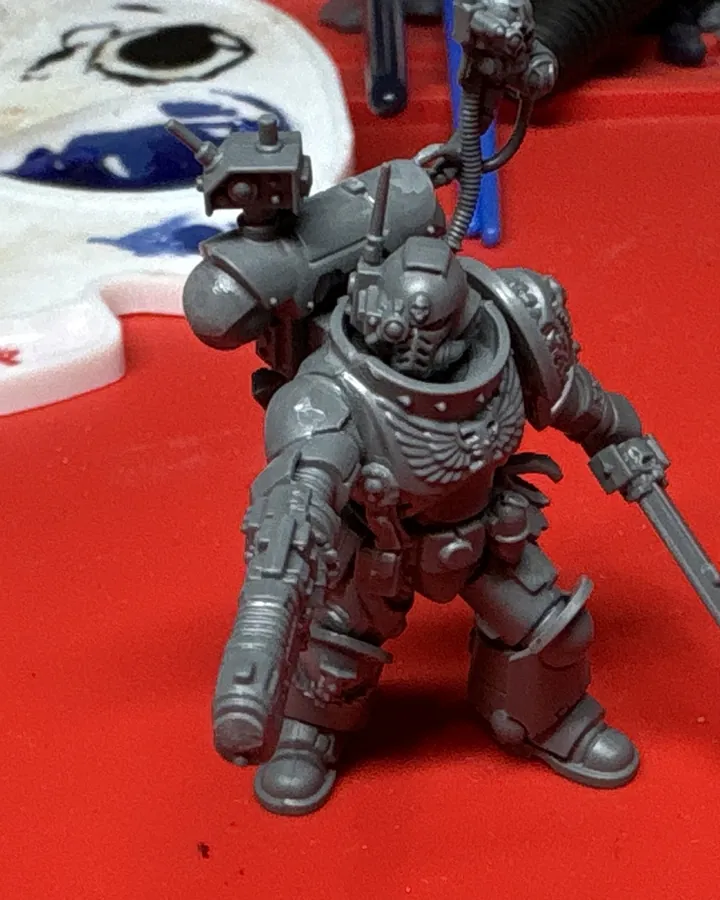
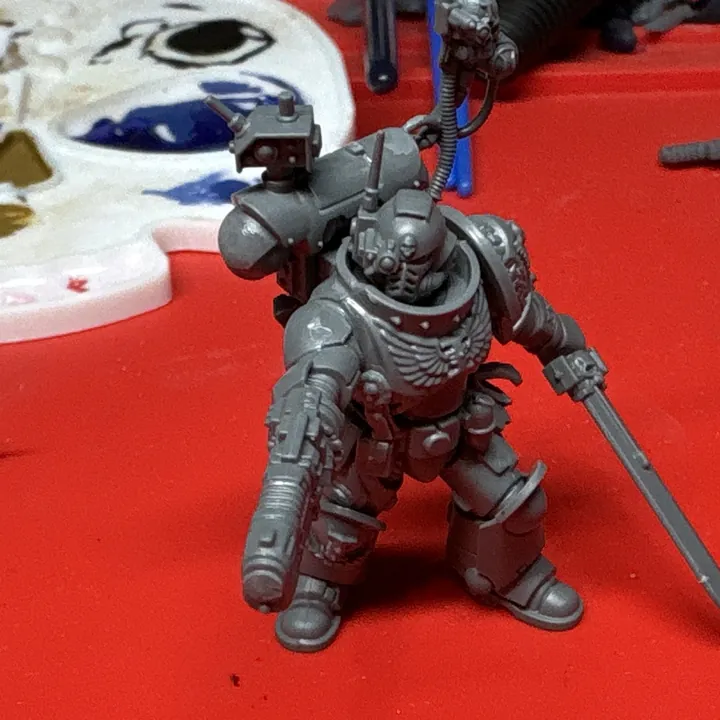
The hero card's photo is square, as the app shows photos
tools/stages.py crops every stage square (720 x 720). The stage word over the
photo goes; the bars under the name say where the model is.

diff --git a/index.html b/index.html
@@ -51,12 +51,11 @@
            of the app around the phone. -->
     <figure class="stage-model card">
       <div class="kit-photo cursor-crosshair" data-eyedropper>
-        <img src="/images/stages/done.webp" width="720" height="900" alt="A finished miniature, an armoured warrior with sword and pistol, on its round base. Tap it to sample a colour.">
-        <img data-src="/images/stages/sprue.webp" width="720" height="900" alt="" aria-hidden="true" class="stage-photo" data-stage-photo="Sprue">
-        <img data-src="/images/stages/built.webp" width="720" height="900" alt="" aria-hidden="true" class="stage-photo" data-stage-photo="Built">
-        <img data-src="/images/stages/primed.webp" width="720" height="900" alt="" aria-hidden="true" class="stage-photo" data-stage-photo="Primed">
-        <img data-src="/images/stages/in-progress.webp" width="720" height="900" alt="" aria-hidden="true" class="stage-photo" data-stage-photo="In Progress">
-        <span class="scrim-stamp left-3 top-3 pointer-events-none" data-stage-stamp>Done</span>
+        <img src="/images/stages/done.webp" width="720" height="720" alt="A finished miniature, an armoured warrior with sword and pistol, on its round base. Tap it to sample a colour.">
+        <img data-src="/images/stages/sprue.webp" width="720" height="720" alt="" aria-hidden="true" class="stage-photo" data-stage-photo="Sprue">
+        <img data-src="/images/stages/built.webp" width="720" height="720" alt="" aria-hidden="true" class="stage-photo" data-stage-photo="Built">
+        <img data-src="/images/stages/primed.webp" width="720" height="720" alt="" aria-hidden="true" class="stage-photo" data-stage-photo="Primed">
+        <img data-src="/images/stages/in-progress.webp" width="720" height="720" alt="" aria-hidden="true" class="stage-photo" data-stage-photo="In Progress">
         <!-- Says what a tap does; after one, it shows the colour taken and offers the way down to it. -->
         <span class="scrim-stamp sample-hint left-3 bottom-3 pointer-events-none normal-case tracking-normal text-[0.75rem] font-medium" data-sample-hint>
           <svg class="w-3.5 h-3.5 self-center" viewBox="0 0 24 24" fill="none" stroke="currentColor" stroke-width="1.6" stroke-linecap="round" stroke-linejoin="round" aria-hidden="true"><path d="m14.5 5.5 4 4"/><path d="M17 3a2.1 2.1 0 0 1 3 3l-2.5 2.5-3-3Z"/><path d="M14.5 6.5 5 16v3h3l9.5-9.5"/></svg>
@@ -226,7 +225,7 @@
           </div>
           <p class="text-sm text-muted mb-4">Finished, photographed, on a plinth.</p>
           <div class="on-plinth aspect-square lg:aspect-auto lg:flex-1 lg:min-h-[16rem]">
-            <img src="/images/stages/done.webp" width="720" height="900" loading="lazy" alt="The finished miniature from the top of the page, on its round base" class="w-full h-full object-cover object-[50%_45%] lg:absolute lg:inset-0">
+            <img src="/images/stages/done.webp" width="720" height="720" loading="lazy" alt="The finished miniature from the top of the page, on its round base" class="w-full h-full object-cover object-[50%_45%] lg:absolute lg:inset-0">
           </div>
           <p class="flex items-baseline justify-between gap-3 pt-3">
             <span class="font-serif text-[1.2rem] leading-none">Veteran with sword</span>

diff --git a/js/illustrations.js b/js/illustrations.js
@@ -14,10 +14,9 @@ function whenSeen(element, action) {
 }
 
 // The hero: one model, Sprue to Done. The finished photo is drawn first; the other four load after it, play
-// through once, and from then on the stage row shows whichever stage is tapped.
+// through once, and from then on the stage bars show whichever stage is tapped.
 const stageButtons = [...document.querySelectorAll('[data-stage]')];
 const stagePhotos = [...document.querySelectorAll('[data-stage-photo]')];
-const stageStamp = document.querySelector('[data-stage-stamp]');
 let stageTimers = [];
 
 function showStage(name) {
@@ -27,7 +26,6 @@ function showStage(name) {
     button.setAttribute('aria-pressed', String(isCurrent));
   });
   stagePhotos.forEach((photo) => photo.classList.toggle('is-shown', photo.dataset.stagePhoto === name));
-  stageStamp.textContent = name;
 }
 
 stageButtons.forEach((button) => {

diff --git a/css/site.css b/css/site.css
@@ -620,10 +620,11 @@ a.sample-hint:hover {
   box-shadow: 0 18px 40px -22px rgb(28 37 26 / 0.4);
 }
 
-/* The model's photo at the top of its card, 4:5 (tools/stages.py crops them so), on the plinth strip. */
+/* The model's photo at the top of its card, square as the app shows every photo (tools/stages.py crops them so),
+   on the plinth strip. */
 .kit-photo {
   position: relative;
-  aspect-ratio: 4 / 5;
+  aspect-ratio: 1;
   overflow: hidden;
   border-bottom: 0.6em solid rgb(var(--plinth));
 }
@@ -685,7 +686,7 @@ a.sample-hint:hover {
   .stage-card.is-desk {
     width: 14em;
     right: calc(50% + 9.5em);
-    top: 27.5em;
+    top: 24.5em;
   }
 
   .stage-card.is-ramp {

diff --git a/tools/stages.py b/tools/stages.py
@@ -1,7 +1,7 @@
 """Builds images/stages/<stage>.webp, the hero's one model at each stage, from the originals in images/models.
 
-Each original is cropped to the hero card's 4:5 photo around the model, then written at 720 x 900 (the photo is shown
-at most 231px wide, so this is 3x). The originals are big camera files and stay out of git and off the site
+Each original is cropped square around the model, as the app shows every photo, then written at 720 x 720 (the
+hero card shows it at most 231px wide, so this is 3x). The originals are big camera files and stay out of git and off the site
 (.gitignore, netlify.toml). Check every crop for Games Workshop text before shipping it (SPEC.md §4): the sprue's
 frame carries "Warhammer" moulded along its right edge, which is why its crop stops short of it.
 
@@ -18,11 +18,11 @@ OUT = ROOT / "images/stages"
 
 # Stage: (original, centre x, centre y, crop height as a fraction of the original's height)
 CROPS = {
-    "sprue": ("sprue.JPG", 0.465, 0.535, 0.70),
+    "sprue": ("sprue.JPG", 0.465, 0.535, 0.5625),
     "built": ("built.JPG", 0.47, 0.44, 0.51),
     "primed": ("primed.JPG", 0.31, 0.58, 0.665),
-    "in-progress": ("in-progress.JPG", 0.41, 0.535, 0.77),
-    "done": ("done-3.jpeg", 0.565, 0.47, 0.92),
+    "in-progress": ("in-progress.JPG", 0.41, 0.535, 0.75),
+    "done": ("done-3.jpeg", 0.565, 0.47, 0.82),
 }
 
 
@@ -32,13 +32,12 @@ def main():
         image = ImageOps.exif_transpose(Image.open(ORIGINALS / name)).convert("RGB")
         width, height = image.size
         crop_height = round(height * fraction)
-        crop_width = round(crop_height * 4 / 5)
+        crop_width = crop_height
         if crop_width > width:
-            crop_width = width
-            crop_height = round(crop_width * 5 / 4)
+            crop_width = crop_height = width
         left = min(max(0, round(centre_x * width - crop_width / 2)), width - crop_width)
         top = min(max(0, round(centre_y * height - crop_height / 2)), height - crop_height)
-        frame = image.crop((left, top, left + crop_width, top + crop_height)).resize((720, 900), Image.LANCZOS)
+        frame = image.crop((left, top, left + crop_width, top + crop_height)).resize((720, 720), Image.LANCZOS)
         path = OUT / f"{stage}.webp"
         frame.save(path, "WEBP", quality=80, method=6)
         print(f"{stage:12} {path.stat().st_size // 1024} KB")

diff --git a/SPEC.md b/SPEC.md
@@ -133,7 +133,7 @@ stay light on paper, carry no third-party marks, and cost a few KB.
   The cards hold still; only the phone and the model's stages move. Sized in em, so one font size
   per breakpoint scales it; from 1024px that size comes from the window's height, so the headline
   and the App Store button still make the first screen. Below 640px it is the model and the phone alone.
-- **The hero is one model at every stage**: `images/stages/<stage>.webp`, cropped to 4:5 by
+- **The hero is one model at every stage**: `images/stages/<stage>.webp`, cropped square (as the app shows photos) by
   `python3 tools/stages.py` from the camera originals in `images/models/` (git-ignored, 404 on the
   site). The finished photo loads with the page; the other four load after it, play through once,
   and the stage row under the photo shows any of them on a tap. Check each crop for GW text before
